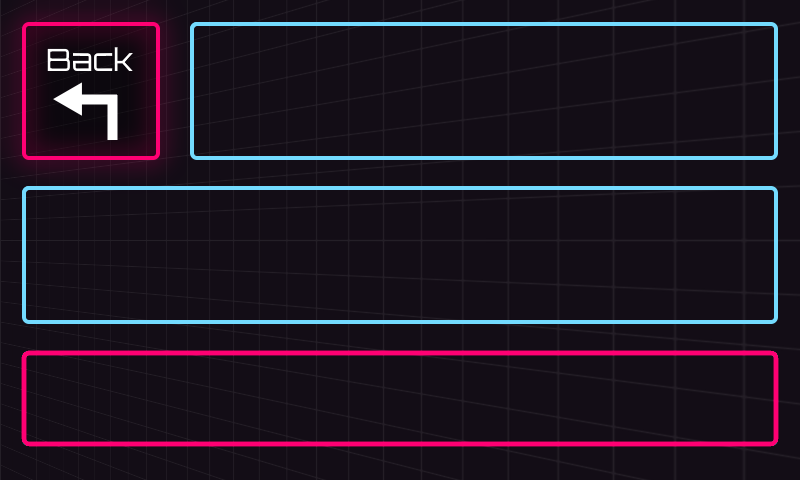
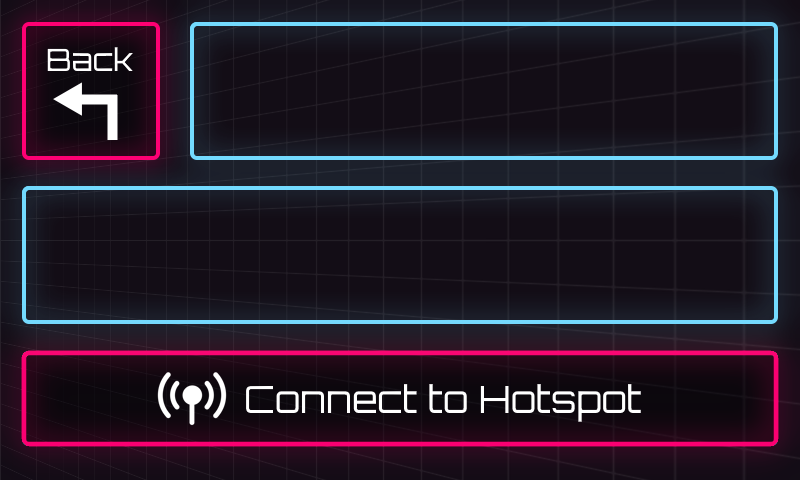
Added network connection option in configuration menu

diff --git a/mainGUI/screens/config_screen.py b/mainGUI/screens/config_screen.py
@@ -4,6 +4,7 @@ from kivy.app import App
 from kivy.properties import ObjectProperty
 from kivy.uix.screenmanager import Screen
 from kivy.clock import Clock
+import subprocess
 
 class ConfigMenu(Screen):
     app = ObjectProperty(None)
@@ -21,6 +22,21 @@ class ConfigMenu(Screen):
             self.ids.dcrmnt_yr.bind(on_press=self._on_decrement_press, on_release=self._on_decrement_release)
         except Exception:
             pass
+
+    def start_network_gui(self):
+        possible_commands = [
+            ["gnome-control-center", "network"],
+            ["nm-connection-editor"],
+            ["nm-applet"],
+            ["kcmshell5", "kcm_networkmanagement"],
+            ["systemsettings5", "network"]
+        ]
+        for command in possible_commands:
+            try:
+                subprocess.Popen(command, stdout=subprocess.DEVNULL, stderr=subprocess.DEVNULL, close_fds=True)
+                return
+            except Exception:
+                pass
 
     def increment_year(self):
         current_year = datetime.now().year
